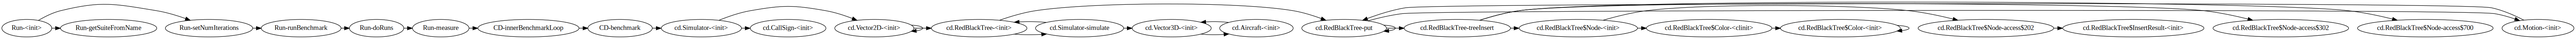
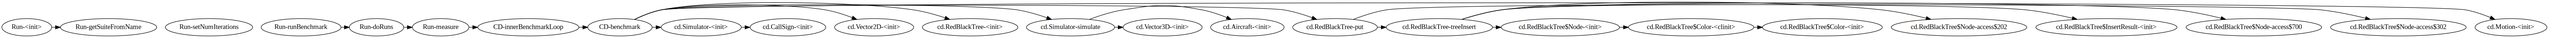
Improved callgraphs by no longer have them create erroneous edges between method nodes, but still limited by the tool's failings

Changed region(s): [[0.0, 0.0286, 1.0, 0.9714], [0.9961, 0.7714, 1.0, 0.8571], [0.0311, 0.0857, 0.0623, 0.1714]]

diff --git a/data_interpretation/calltraces/export_tree.py b/data_interpretation/calltraces/export_tree.py
@@ -17,15 +17,21 @@ def export_tree(project_name: str, input_lines: [Dict], only_render=False):
             node_names.add(method_name)
             dot.node(method_name)
 
-    prev_arg = input_lines[0]
-    for line in input_lines[1:]:
+    function_stack = []
+    for line in input_lines:
         method_name = line["class"] + "-" + line["method"]
-        prev_method_name = prev_arg["class"] + "-" + prev_arg["method"]
+
         if line["method_access"] == "entry":
-            dot.edge(prev_method_name, method_name, constraint='false')
-        # elif line["method_access"] == "exit":
-        #     dot.edge(method_name, prev_method_name, constraint='false')
-        prev_arg = line
+            function_stack.append(method_name)
+            if len(function_stack) >= 2:
+                dot.edge(function_stack[-2], method_name, constraint='false')
+        elif line["method_access"] == "exit":
+            method_name = function_stack.pop()
+            if len(function_stack) >= 1:
+                dot.edge(function_stack[-1], method_name, constraint='false')
+
+    # Does nothing, but theoretically should :(
+    dot = dot.unflatten(stagger=3)
 
     if not only_render:
         dot.render(os.path.join(OUTPUT_TREES_DIR, project_name), cleanup=True)
